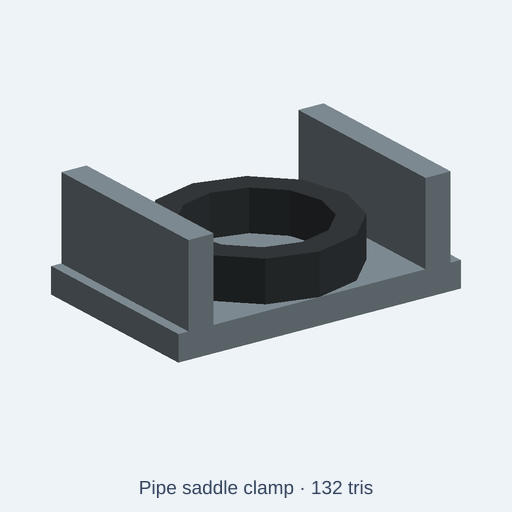
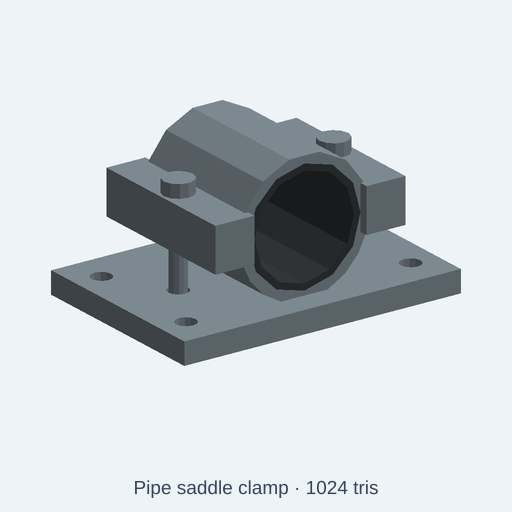
fix(catalog): model a real two-piece pipe saddle opening (#1367)

Changed region(s): [[0.0938, 0.1875, 0.9062, 0.7188], [0.25, 0.9375, 0.75, 0.9688]]

diff --git a/tests/integration/catalog/pipeSaddleClampFidelity.test.ts b/tests/integration/catalog/pipeSaddleClampFidelity.test.ts
@@ -1,0 +1,135 @@
+// SPDX-License-Identifier: MIT
+// Semantic native verification: a donut on a plate is not a two-piece pipe clamp.
+// Test actual open horizontal passage and the separately removable cap.
+import { beforeAll, describe, expect, it } from 'vitest';
+import { readFileSync } from 'node:fs';
+import { resolve } from 'node:path';
+import { NodeIO } from '@gltf-transform/core';
+import { initOcct } from '../../../src/kernel/backends/occt/occtBackend';
+import { buildCatalogAssetWithGlb } from '../../../src/agent/catalog/buildCatalog';
+import { runAndExport } from '../../../src/agent/script-runtime/export';
+
+type V = [number, number, number];
+type Tri = [V, V, V];
+const root = resolve(import.meta.dirname, '../../..');
+const sourcePath = 'catalog/kits/standard-components/pipe-saddle-clamp.kcad.ts';
+const sub = (a: V, b: V): V => [a[0]-b[0], a[1]-b[1], a[2]-b[2]];
+const dot = (a: V, b: V) => a[0]*b[0]+a[1]*b[1]+a[2]*b[2];
+const cross = (a: V, b: V): V => [a[1]*b[2]-a[2]*b[1], a[2]*b[0]-a[0]*b[2], a[0]*b[1]-a[1]*b[0]];
+function rayHits(tris: Tri[], start: V, direction: V): boolean {
+  return tris.some(tri => {
+    const edge1=sub(tri[1],tri[0]), edge2=sub(tri[2],tri[0]);
+    const p=cross(direction,edge2), determinant=dot(edge1,p);
+    if(Math.abs(determinant)<1e-9)return false;
+    const t=sub(start,tri[0]), u=dot(t,p)/determinant, q=cross(t,edge1);
+    const v=dot(direction,q)/determinant, distance=dot(edge2,q)/determinant;
+    return u>=-1e-7&&v>=-1e-7&&u+v<=1+1e-7&&distance>1e-6&&distance<200;
+  });
+}
+async function readMeshes(glb: Uint8Array, scale: number): Promise<Map<string,Tri[]>> {
+  // Low-poly positions are authored millimetres before scene-axis conversion.
+  const doc=await new NodeIO().readBinary(glb), parts=new Map<string,Tri[]>();
+  for(const node of doc.getRoot().listNodes()) {
+    const mesh=node.getMesh(); if(!mesh)continue;
+    const tris:Tri[]=[];
+    for(const primitive of mesh.listPrimitives()) {
+      const pos=primitive.getAttribute('POSITION')!, indices=primitive.getIndices();
+      const count=indices?indices.getCount():pos.getCount();
+      for(let i=0;i<count;i+=3)tris.push([0,1,2].map(k=>
+        pos.getElement(indices?indices.getScalar(i+k):i+k,[]).map(v=>v/scale) as V
+      ) as Tri);
+    }
+    parts.set(node.getName(),tris);
+  }
+  return parts;
+}
+function components(tris: Tri[]): number {
+  const parent=new Map<string,string>();
+  const find=(key:string):string=>{const p=parent.get(key)!;if(p===key)return key;const r=find(p);parent.set(key,r);return r;};
+  for(const tri of tris) {
+    const keys=tri.map(v=>v.map(x=>x.toFixed(4)).join(','));
+    for(const key of keys)if(!parent.has(key))parent.set(key,key);
+    for(const key of keys.slice(1))parent.set(find(key),find(keys[0]));
+  }
+  return new Set([...parent.keys()].map(find)).size;
+}
+function verify(parts: Map<string,Tri[]>): void {
+  expect([...parts.keys()].sort()).toEqual([
+    'left-clamp-bolt','lower-rubber-liner','lower-saddle-and-foot',
+    'removable-upper-cap','right-clamp-bolt','upper-rubber-liner'
+  ]);
+  const lower=parts.get('lower-saddle-and-foot')!, upper=parts.get('removable-upper-cap')!;
+  expect(components(lower),'lower saddle and mounting foot one connected part').toBe(1);
+  expect(components(upper),'upper cap and ears one connected removable part').toBe(1);
+  for(const name of ['lower-rubber-liner','upper-rubber-liner','left-clamp-bolt','right-clamp-bolt']) {
+    expect(components(parts.get(name)!),`${name} is a connected part`).toBe(1);
+  }
+  const all=[...parts.values()].flat();
+  // Pipe axis is horizontal, along Y. Test both ends, several radial positions.
+  for(const x of [-8,0,8]) for(const z of [14,19,24]) {
+    if(Math.hypot(x,z-19)>11.4)continue;
+    for(const dir of [-1,1] as const) {
+      expect(rayHits(all,[x,dir*45,z],[0,-dir,0]),`clear horizontal bore x=${x},z=${z},side=${dir}`).toBe(false);
+    }
+  }
+  // A deleted arch/seat could otherwise pass the clearance checks.
+  for(const [x,z] of [[0,32],[0,6],[-14,19],[14,19]] as const) {
+    expect(rayHits(all,[x,-45,z],[0,1,0]),`curved pipe saddle material x=${x},z=${z}`).toBe(true);
+  }
+  for(const [x,z] of [[0,32],[14,19]] as const) {
+    expect(rayHits(upper,[x,-45,z],[0,1,0]),'upper curved cap retained').toBe(true);
+  }
+  for(const [x,z] of [[0,6],[-14,19]] as const) {
+    expect(rayHits(lower,[x,-45,z],[0,1,0]),'lower seat retained').toBe(true);
+  }
+  // Mating ear bores must remain open in BOTH steel clamp halves (bolts are separate).
+  for(const x of [-18,18]) {
+    expect(rayHits(lower,[x,0,45],[0,0,-1]),`lower ear bore ${x}`).toBe(false);
+    expect(rayHits(upper,[x,0,45],[0,0,-1]),`upper ear bore ${x}`).toBe(false);
+    expect(rayHits(parts.get(x<0?'left-clamp-bolt':'right-clamp-bolt')!,[x,0,45],[0,0,-1]),'separate bolt present').toBe(true);
+    expect(rayHits(lower,[x+(x<0?2.8:-2.8),0,45],[0,0,-1]),'flanking ear still has steel').toBe(true);
+  }
+  for(const x of [-26,26]) for(const y of [-14,14]) {
+    expect(rayHits(lower,[x,y,45],[0,0,-1]),`mounting foot hole x=${x},y=${y}`).toBe(false);
+  }
+  for(const [axis,min,max] of [[0,-32,32],[1,-22,22]] as const) {
+    const values=all.flat().map(p=>p[axis]);
+    expect(Math.min(...values)).toBeCloseTo(min,2);
+    expect(Math.max(...values)).toBeCloseTo(max,2);
+  }
+  const elevations=all.flat().map(p=>p[2]);
+  expect(Math.min(...elevations)).toBeCloseTo(0,2);
+  expect(Math.max(...elevations)).toBeGreaterThan(33);
+  expect(Math.max(...elevations)).toBeLessThan(35);
+}
+beforeAll(async()=>{await initOcct()},30000);
+describe('illustrative two-piece pipe saddle clamp functional fidelity',()=>{
+ for(const [choice,scale] of [['standard',1],['compact',0.75],['large',1.25]] as const){
+  it(`${choice}: open horizontal pipe bore, separate cap/liners, four foot holes and real bolt passages`,async()=>{
+   const source=readFileSync(resolve(root,sourcePath),'utf8');
+   const built=await buildCatalogAssetWithGlb(root,sourcePath);
+   const code=source.replace("param('size', 'standard'",`param('size', '${choice}'`);
+   const exported=choice==='standard'?{bytes:built.glb,diagnostics:[]}:await runAndExport({
+    code,fileName:'pipe-saddle-clamp.kcad.ts',scriptDir:resolve(root,'catalog/kits/standard-components'),
+    format:'glb',options:{format:'glb',style:'lowpoly',lowpoly:{maxTriangles:built.asset.triangleBudget}}
+   });
+   expect(exported.diagnostics.filter(d=>d.severity==='error')).toEqual([]);
+   verify(await readMeshes(exported.bytes,scale));
+   expect(built.asset.description).toMatch(/Illustrative CC0/i);
+   expect(built.asset.description).toMatch(/Not manufacturer-grade CAD/i);
+   expect(built.asset.stats.triangles).toBeLessThanOrEqual(built.asset.triangleBudget);
+   expect(built.asset.stats.minUpM).toBeCloseTo(0,6);
+  },60000);
+ }
+ it('negative control: exact original vertical donut cannot satisfy a horizontal two-piece clamp',async()=>{
+  const original=readFileSync(resolve(root,'tests/fixtures/catalog/pipeSaddleClampOriginal.kcad.ts'),'utf8');
+  const exported=await runAndExport({code:original,fileName:'pipe-saddle-clamp-original.kcad.ts',
+   scriptDir:resolve(root,'catalog/kits/standard-components'),format:'glb',
+   options:{format:'glb',style:'lowpoly',lowpoly:{maxTriangles:360}}});
+  expect(exported.diagnostics.filter(d=>d.severity==='error')).toEqual([]);
+  const parts=await readMeshes(exported.bytes,1);
+  expect([...parts.keys()]).toContain('seat');
+  expect(parts.has('removable-upper-cap')).toBe(false);
+  expect(()=>verify(parts)).toThrow();
+ },60000);
+});

diff --git a/catalog/kits/standard-components/pipe-saddle-clamp.kcad.ts b/catalog/kits/standard-components/pipe-saddle-clamp.kcad.ts
@@ -1,31 +1,69 @@
-// Distinctive geometry: Two-piece saddle clamp with a curved seat, twin side lugs and a mounting foot
+// SPDX-License-Identifier: CC0-1.0
+// An illustrative two-piece pipe saddle, not a rated/fit-qualified clamp.
+// The pipe axis runs along Y. Keep its aperture open across both ends.
 meta({
   name: 'pipe-saddle-clamp',
   license: 'CC0-1.0',
   title: 'Pipe saddle clamp',
-  description: 'Two-piece saddle clamp with a curved seat, twin side lugs and a mounting foot Knobs: model size, steel, rubber.',
+  description: 'Illustrative CC0 two-piece pipe saddle clamp with a lower curved cradle, a separate bolted top cap, two rubber half-liners, an open horizontal pipe passage, and four mounting-foot holes. Not manufacturer-grade CAD: no pipe standard, bolt specification, clearance tolerance or load rating. Knobs change scale and appearance colors only.',
   tags: ['pipe clamp', 'saddle clamp', 'tube support', 'plumbing'],
   kit: 'standard-components',
   category: 'attachment',
   origin: 'base',
   compat: ['mechanical', 'industrial', 'workshop', 'assembly'],
-  triangleBudget: 360,
+  triangleBudget: 1500,
 });
 
-const size = param('size', 'standard', { choices: ['compact', 'standard', 'large'], label: 'Model size' });
-const steel = param('steel', '#85929a', { label: 'Steel' });
-const rubber = param('rubber', '#353a3d', { label: 'Rubber' });
+const size = param('size', 'standard', { choices: ['compact', 'standard', 'large'], label: 'Illustrative model size' });
+const steel = param('steel', '#85929a', { label: 'Steel appearance color' });
+const rubber = param('rubber', '#353a3d', { label: 'Rubber appearance color' });
 presets({
   dark: { steel: '#3e484e', rubber: '#242729' },
   brass: { steel: '#646f75', rubber: '#2a2d2f' },
-  weathered: { steel: '#665b4d', rubber: '#3b3935' }
+  weathered: { steel: '#665b4d', rubber: '#3b3935' },
 });
 
 const s = size.value === 'compact' ? 0.75 : size.value === 'large' ? 1.25 : 1;
-const block = (x: number, y: number, z: number, w: number, d: number, h: number) => box(w, d, h).translate(x, y, z);
+const block = (x: number, y: number, z: number, w: number, d: number, h: number) =>
+  box(w, d, h).translate(x, y, z);
+// A real pipe seat must be horizontal. A vertical donut on a flat plate is
+// neither a saddle nor a two-piece clamp. Annular halves meet at Z=19 mm.
+const halfBand = (outer: number, inner: number) =>
+  cylinder(32 * s, outer * s, 24)
+    .subtract(cylinder(34 * s, inner * s, 24).translate(0, 0, -s))
+    .rotateX(90).translate(0, 16 * s, 19 * s);
+const lowerHalf = (shape) => shape.intersect(block(-17 * s, -18 * s, 0, 34 * s, 36 * s, 19 * s));
+const upperHalf = (shape) => shape.intersect(block(-17 * s, -18 * s, 19 * s, 34 * s, 36 * s, 18 * s));
+const steelBand = halfBand(15, 13);
+const linerBand = halfBand(13, 11.5);
+
+let lower = block(-32 * s, -22 * s, 0, 64 * s, 44 * s, 5 * s)
+  .union(lowerHalf(steelBand));
+let cap = upperHalf(steelBand);
+// Lower/upper ears are physically distinct; each overlaps its curved half.
+for (const x of [-22, 13]) {
+  lower = lower.union(block(x * s, -18 * s, 15 * s, 9 * s, 36 * s, 4 * s));
+  cap = cap.union(block(x * s, -18 * s, 19 * s, 9 * s, 36 * s, 6 * s));
+}
+// Both ear bores are real through passages. Separate shaft/head solids follow.
+for (const x of [-18, 18]) {
+  const boltBore = cylinder(28 * s, 2.3 * s, 16).translate(x * s, 0, -s);
+  lower = lower.subtract(boltBore);
+  cap = cap.subtract(boltBore);
+}
+// The wide base is fixed independently of the two top-cap bolts.
+for (const x of [-26, 26]) for (const y of [-14, 14]) {
+  lower = lower.subtract(cylinder(7 * s, 2.3 * s, 16).translate(x * s, y * s, -s));
+}
+
 const a = assembly('pipe-saddle-clamp');
-a.part('foot',block(-28*s,-18*s,0,56*s,36*s,5*s).color(steel));
-a.part('seat',cylinder(8*s,18*s,12).subtract(cylinder(10*s,13*s,12).translate(0,0,-s)).translate(0,0,5*s).color(rubber));
-a.part('left-lug',block(-26*s,-18*s,5*s,5*s,36*s,16*s).color(steel));
-a.part('right-lug',block(21*s,-18*s,5*s,5*s,36*s,16*s).color(steel));
+a.part('lower-saddle-and-foot', lower.color(steel));
+a.part('removable-upper-cap', cap.color(steel));
+a.part('lower-rubber-liner', lowerHalf(linerBand).color(rubber));
+a.part('upper-rubber-liner', upperHalf(linerBand).color(rubber));
+for (const x of [-18, 18]) {
+  const bolt = cylinder(21 * s, 1.9 * s, 12).translate(x * s, 0, 4 * s)
+    .union(cylinder(3 * s, 3.4 * s, 12).translate(x * s, 0, 25 * s));
+  a.part(x < 0 ? 'left-clamp-bolt' : 'right-clamp-bolt', bolt.color(steel));
+}
 return a.model();

diff --git a/tests/fixtures/catalog/pipeSaddleClampOriginal.kcad.ts b/tests/fixtures/catalog/pipeSaddleClampOriginal.kcad.ts
@@ -1,0 +1,31 @@
+// Distinctive geometry: Two-piece saddle clamp with a curved seat, twin side lugs and a mounting foot
+meta({
+  name: 'pipe-saddle-clamp',
+  license: 'CC0-1.0',
+  title: 'Pipe saddle clamp',
+  description: 'Two-piece saddle clamp with a curved seat, twin side lugs and a mounting foot Knobs: model size, steel, rubber.',
+  tags: ['pipe clamp', 'saddle clamp', 'tube support', 'plumbing'],
+  kit: 'standard-components',
+  category: 'attachment',
+  origin: 'base',
+  compat: ['mechanical', 'industrial', 'workshop', 'assembly'],
+  triangleBudget: 360,
+});
+
+const size = param('size', 'standard', { choices: ['compact', 'standard', 'large'], label: 'Model size' });
+const steel = param('steel', '#85929a', { label: 'Steel' });
+const rubber = param('rubber', '#353a3d', { label: 'Rubber' });
+presets({
+  dark: { steel: '#3e484e', rubber: '#242729' },
+  brass: { steel: '#646f75', rubber: '#2a2d2f' },
+  weathered: { steel: '#665b4d', rubber: '#3b3935' }
+});
+
+const s = size.value === 'compact' ? 0.75 : size.value === 'large' ? 1.25 : 1;
+const block = (x: number, y: number, z: number, w: number, d: number, h: number) => box(w, d, h).translate(x, y, z);
+const a = assembly('pipe-saddle-clamp');
+a.part('foot',block(-28*s,-18*s,0,56*s,36*s,5*s).color(steel));
+a.part('seat',cylinder(8*s,18*s,12).subtract(cylinder(10*s,13*s,12).translate(0,0,-s)).translate(0,0,5*s).color(rubber));
+a.part('left-lug',block(-26*s,-18*s,5*s,5*s,36*s,16*s).color(steel));
+a.part('right-lug',block(21*s,-18*s,5*s,5*s,36*s,16*s).color(steel));
+return a.model();

diff --git a/docs/quality/pipe-saddle-clamp-2026-11-13.md b/docs/quality/pipe-saddle-clamp-2026-11-13.md
@@ -1,0 +1,35 @@
+# Pipe saddle clamp: replace a vertical donut with a two-piece pipe seat
+
+13 November 2026. Fixes [catalog defect #1366](https://github.com/w1ne/kernelCAD-web/issues/1366). This is an illustrative CC0 low-poly scene prop. It is not vendor CAD, a dimensioned pipe standard, a verified fastening solution or a load-rated design.
+
+## Confirmed semantic defect
+
+The live baseline described a *two-piece pipe saddle clamp*, but the source modeled a 56 × 36 × 5 mm foot, two vertical walls, and a rubber ring with its axis along Z. The PNG showed a donut trapped between parallel walls. There was no lower curved pipe cradle along the horizontal pipe axis, no separate upper saddle cap, and no actual fastener passages or mounting holes. The old model evaluated, rendered, and passed thumbnail transport checks despite having the wrong component identity.
+
+The source fix creates two separate steel half-saddles around a Y-axis pipe opening, a connected lower steel cradle and mounting foot, separate upper cap, separate rubber half-liners, two bolt shafts/heads through real aligned ear bores, and four mounting-foot holes. It does not change material appearance presets into invented physical material properties. The revised descriptive copy explicitly states no validated pipe-standard fit, tolerance, bolt specification or load rating. A physical pipe, torque preload and assembly motion were not modeled or verified.
+
+![Native before and after: iso, front and end views](evidence/pipe-saddle-clamp-20261113/before-after.png)
+
+Top row is the original source (132 triangles). Bottom row is the repaired 1,024-triangle model, below the 1,500-triangle budget. These are native OCCT-to-GLB software views, not browser/WebGL proof. The [six-second native front-view clip](evidence/pipe-saddle-clamp-20261113/native-comparison.mp4) provides before/after visual evidence, not a simulated assembly action.
+
+## Functional geometry acceptance
+
+`tests/integration/catalog/pipeSaddleClampFidelity.test.ts` evaluates the nominal model and all three published size presets (0.75×, 1×, 1.25×) using exported triangle geometry. It tests both Y-axis openings through the assembled clamp, actual curved material at four positive-control points, separate connected lower and upper steel parts, two connected rubber liners, real through-bores in both steel ears, two separate clamp bolts, four base through-holes, and the nominal 64 × 44 mm foot envelope. The exact original published source is retained as the negative-control fixture `tests/fixtures/catalog/pipeSaddleClampOriginal.kcad.ts`; its native output succeeds, but correctly fails the structural identity contract.
+
+Before: three new positive cases fail; the original-source negative control passes. After: **4/4 native geometry regressions pass**. Existing catalog asset-module integration **4/4 passes**. Targeted ESLint and the 2,402 bundled source-hash/index consistency checks pass. Full native catalog-index and repository CI remain separate exact-head PR gates.
+
+```sh
+NODE_OPTIONS=--max-old-space-size=2048 node node_modules/vitest/vitest.mjs run \
+  tests/integration/catalog/pipeSaddleClampFidelity.test.ts \
+  tests/integration/catalog/assetModule.test.ts \
+  --maxWorkers=1 --no-file-parallelism
+node node_modules/eslint/bin/eslint.js \
+  tests/integration/catalog/pipeSaddleClampFidelity.test.ts \
+  catalog/kits/standard-components/pipe-saddle-clamp.kcad.ts
+```
+
+Node 24.22.2, reused compatible dependency tree, one Vitest worker and 2 GiB heap. Fresh isolated worktree from remote `develop` at `7986fd635c2a5127469a3ad8fe2d09ed7eda942b`. This source-only acceptance is not clean packaged-runtime validation or physical manufacturing approval.
+
+## Release acceptance
+
+Do not mark production repaired on merge alone. Require reviewed exact-head CI and protected merge. After marketing publication and cache purge, compare the actual served `.kcad.ts` and gallery/per-part PNGs byte-for-byte with the merged commit. Re-evaluate the downloaded live source with this same geometry test, inspect the live gallery page and its explicit limitations, then update the evidence ledger. Keep private Studio/product QA in private repositories.
